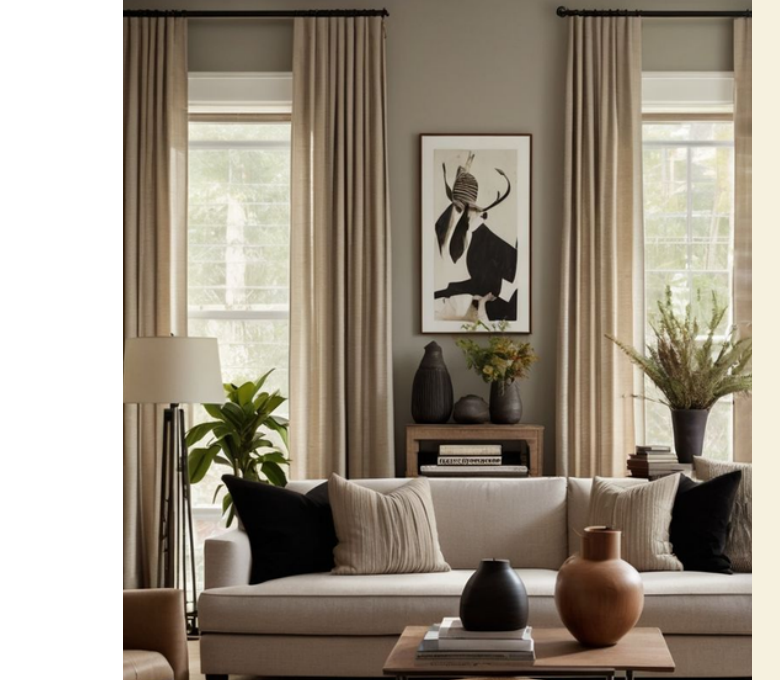
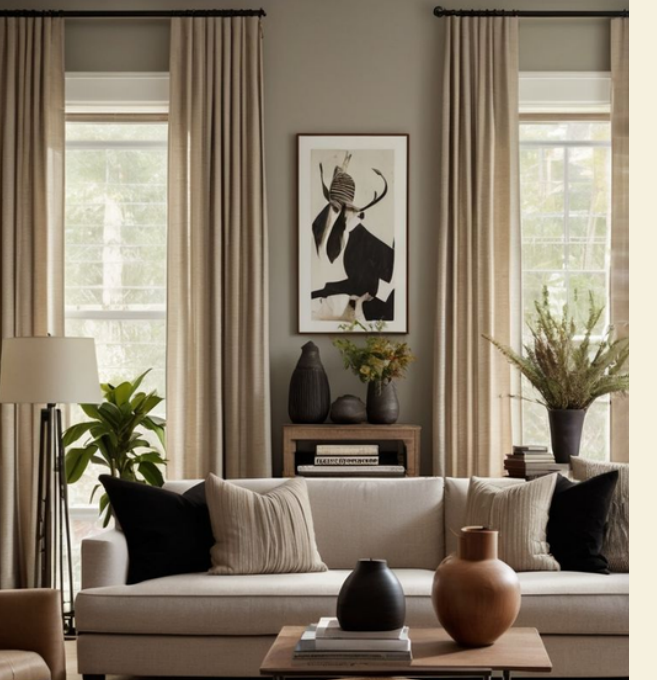
adding img

diff --git a/curtain studio/src/pages/Home.tsx b/curtain studio/src/pages/Home.tsx
@@ -2,12 +2,27 @@ import { motion } from "framer-motion";
 import heroImg from "../assets/hero_living_room.png";
 import productsImg from "../assets/products_collage.png";
 import timelineImg from "../assets/timeline.png";
+import processImg from "../assets/process_img.jpg";
 import { brand, sections, milestones } from "../data/content";
 import { Card, CardBody, SectionTitle } from "../components/ui";
-import { ArrowRight, CheckCircle2, Sparkles } from "lucide-react";
+import { ArrowRight, CheckCircle2 } from "lucide-react";
 import { Link } from "react-router-dom";
-import Gallery from "../pages/Gallery"
+import Gallery from "../pages/Gallery";
 import QuoteEstimator from "../components/quote/QuoteEstimator";
+import {
+  Ruler,
+  Drill,
+  Sparkles,
+  ShieldCheck,
+  Scissors,
+  Clock3,
+  Home as HomeIcon,
+} from "lucide-react";
+
+const homeGallery = [
+  { src: processImg, alt: "Interior inspiration" },
+  { src: heroImg, alt: "Living room curtains" },
+];
 
 export default function Home() {
   return (
@@ -22,11 +37,14 @@ export default function Home() {
             </div>
             <h1 className="mt-4 text-4xl md:text-5xl font-semibold leading-tight">
               {brand.name}
-              <span className="block text-black/60 text-2xl md:text-3xl mt-2">{brand.tagline}</span>
+              <span className="block text-black/60 text-2xl md:text-3xl mt-2">
+                {brand.tagline}
+              </span>
             </h1>
             <p className="mt-4 text-black/70">
-              A growing décor brand specialising in custom curtains, rods, rails, accessories, and installation —
-              built on a deposit-based, low-risk model.
+              A growing décor brand specialising in custom curtains, rods,
+              rails, accessories, and installation — structured around a clear deposit 
+              and booking process for smooth project delivery.
             </p>
 
             <div className="mt-6 flex flex-col sm:flex-row gap-3">
@@ -44,10 +62,22 @@ export default function Home() {
               </Link>
             </div>
 
-            <div className="mt-8 grid grid-cols-3 gap-3 text-center">
-              <Stat label="Avg profit/job" value="R900–R1,100" />
-              <Stat label="Monthly potential" value="R4k–R12k" />
-              <Stat label="Model" value="Deposit-based" />
+            <div className="mt-8 grid grid-cols-3 gap-3">
+              <BrandStat
+                icon={<HomeIcon className="h-4 w-4 text-brass" />}
+                value="At-home consult"
+                label="We come measure & advise"
+              />
+              <BrandStat
+                icon={<Clock3 className="h-4 w-4 text-brass" />}
+                value="Fast turnaround"
+                label="Quick quote + scheduling"
+              />
+              <BrandStat
+                icon={<ShieldCheck className="h-4 w-4 text-brass" />}
+                value="Pro finish"
+                label="Neat install & styling"
+              />
             </div>
           </div>
 
@@ -57,7 +87,12 @@ export default function Home() {
             transition={{ duration: 0.5 }}
             className="rounded-3xl overflow-hidden shadow-soft border border-black/5 bg-white"
           >
-            <img src={heroImg} alt="Styled living room with curtains" className="w-full h-full object-cover" />
+            <img
+              src={heroImg}
+              alt="Styled living room with curtains"
+             className="w-full h-[350px] md:h-[450px] object-cover"
+
+            />
           </motion.div>
         </div>
       </section>
@@ -100,45 +135,86 @@ export default function Home() {
               </CardBody>
             </Card>
           </div>
-
-          
         </div>
       </section>
 
       {/*Gallery */}
-     <Gallery/>
+      <Gallery />
 
-      {/* Milestones */}
-      <section className="border-t border-black/5 bg-white/40">
+      {/* ✅ REPLACED MILESTONES: conversion-focused “How it works” + “Promise” */}
+      <section className="border-t border-black/5">
         <div className="container py-12">
           <SectionTitle
-            eyebrow="Future plans"
-            title="From curtains to a full décor brand"
-            subtitle="Over the next three years, we expand our product range, team, and physical footprint."
+            eyebrow="How it works"
+            title="A simple, clean process — from measurement to install"
+            subtitle="Designed for convenience and a premium finish."
           />
 
-          <div className="mt-8 grid gap-6 md:grid-cols-2 items-start">
-            <div className="rounded-2xl overflow-hidden border border-black/5 bg-white shadow-soft">
-              <img src={timelineImg} alt="Milestones timeline" className="w-full object-cover" />
+          <div className="mt-8 grid gap-6 md:grid-cols-3">
+            <ProcessCard
+              icon={<Ruler className="h-5 w-5 text-brass" />}
+              title="1) Consult & measure"
+              text="We visit, measure accurately, and help you pick fabric + style."
+            />
+            <ProcessCard
+              icon={<Scissors className="h-5 w-5 text-brass" />}
+              title="2) Custom make"
+              text="Your curtains are made-to-fit with neat stitching and clean lines."
+            />
+            <ProcessCard
+              icon={<Drill className="h-5 w-5 text-brass" />}
+              title="3) Install & style"
+              text="We install rods/rails and finish the look so it’s ready to enjoy."
+            />
+          </div>
+
+          <div className="mt-10 grid gap-6 md:grid-cols-2 items-start">
+            <div className="rounded-3xl overflow-hidden border border-black/10 shadow-soft bg-white">
+              <img
+                src={processImg}
+                alt="Interior styling inspiration"
+                className="w-full h-72 md:h-80 object-cover"
+              />
             </div>
 
             <Card>
               <CardBody>
-                <div className="font-semibold">Milestones</div>
-                <ol className="mt-3 space-y-3 text-black/70">
-                  {milestones.map((m) => (
-                    <li key={m.year} className="flex gap-3">
-                      <span className="mt-0.5 inline-flex h-7 w-14 items-center justify-center rounded-xl bg-sand text-ink text-sm font-semibold">
-                        {m.year}
-                      </span>
-                      <span>{m.text}</span>
-                    </li>
-                  ))}
-                </ol>
+                <div className="flex items-center gap-2 font-semibold">
+                  <ShieldCheck className="h-5 w-5 text-brass" />
+                  The Curtain Studio Promise
+                </div>
 
-                <div className="mt-6">
-                  <Link to="/investors" className="inline-flex items-center gap-2 text-brass hover:underline">
-                    See investment plan <ArrowRight className="h-4 w-4" />
+                <ul className="mt-3 space-y-2 text-black/70">
+                  <li className="flex gap-2">
+                    <CheckCircle2 className="h-5 w-5 text-brass shrink-0" />
+                    <span>Accurate measurements and clear recommendations</span>
+                  </li>
+                  <li className="flex gap-2">
+                    <CheckCircle2 className="h-5 w-5 text-brass shrink-0" />
+                    <span>
+                      Quality materials + a neat, professional install
+                    </span>
+                  </li>
+                  <li className="flex gap-2">
+                    <CheckCircle2 className="h-5 w-5 text-brass shrink-0" />
+                    <span>
+                      Simple booking, simple communication, clean results
+                    </span>
+                  </li>
+                </ul>
+
+                <div className="mt-6 flex flex-col sm:flex-row gap-3">
+                  <Link
+                    to="/quote"
+                    className="rounded-xl bg-ink px-5 py-3 text-paper shadow-soft hover:opacity-95 inline-flex items-center justify-center gap-2"
+                  >
+                    Estimate my project <ArrowRight className="h-4 w-4" />
+                  </Link>
+                  <Link
+                    to="/contact"
+                    className="rounded-xl bg-sand px-5 py-3 text-ink shadow-soft hover:opacity-95 inline-flex items-center justify-center"
+                  >
+                    Book a consultation
                   </Link>
                 </div>
               </CardBody>
@@ -146,8 +222,6 @@ export default function Home() {
           </div>
         </div>
       </section>
-
-    
     </div>
   );
 }
@@ -157,6 +231,47 @@ function Stat({ label, value }: { label: string; value: string }) {
     <div className="rounded-2xl bg-white/60 border border-black/5 shadow-soft px-3 py-3">
       <div className="text-sm font-semibold">{value}</div>
       <div className="text-xs text-black/60 mt-1">{label}</div>
+    </div>
+  );
+}
+
+function BrandStat({
+  icon,
+  value,
+  label,
+}: {
+  icon: React.ReactNode;
+  value: string;
+  label: string;
+}) {
+  return (
+    <div className="rounded-2xl bg-paper/70 backdrop-blur border border-black/10 shadow-soft px-3 py-3">
+      <div className="flex items-center gap-2">
+        <span className="inline-flex h-8 w-8 items-center justify-center rounded-xl bg-sand border border-black/10">
+          {icon}
+        </span>
+        <div className="text-sm font-semibold text-ink">{value}</div>
+      </div>
+      <div className="text-xs text-black/60 mt-2">{label}</div>
+    </div>
+  );
+}
+function ProcessCard({
+  icon,
+  title,
+  text,
+}: {
+  icon: React.ReactNode;
+  title: string;
+  text: string;
+}) {
+  return (
+    <div className="rounded-3xl bg-white/70 backdrop-blur border border-black/10 shadow-soft p-5">
+      <div className="inline-flex h-10 w-10 items-center justify-center rounded-2xl bg-sand border border-black/10">
+        {icon}
+      </div>
+      <div className="mt-3 font-semibold">{title}</div>
+      <div className="mt-2 text-sm text-black/70">{text}</div>
     </div>
   );
 }

diff --git a/curtain studio/src/pages/Gallery.tsx b/curtain studio/src/pages/Gallery.tsx
@@ -1,9 +1,9 @@
 import { useMemo, useState } from "react";
 import { Card, CardBody, SectionTitle } from "../components/ui";
-import heroImg from "../assets/hero_living_room.png";
-import productsImg from "../assets/products_collage.png";
-import founderImg from "../assets/founder_temogo.png";
-import timelineImg from "../assets/timeline.png";
+import heroImg from "../assets/beforeX.jpg";
+import productsImg from "../assets/After.jpg";
+import founderImg from "../assets/warm-luxury.jpg";
+import timelineImg from "../assets/minimulist.jpg";
 import Lightbox from "../components/Lightbox";
 import BeforeAfterSlider from "../components/quote/BeforeAfterSlider";
 
@@ -18,8 +18,8 @@ export default function Gallery() {
     () => [
       { src: heroImg, alt: "Styled living room curtains", tag: "Rooms" },
       { src: productsImg, alt: "Curtain and décor product collage", tag: "Products" },
-      { src: founderImg, alt: "Founder portrait", tag: "Team" },
-      { src: timelineImg, alt: "Business milestones timeline", tag: "Growth" },
+      { src: founderImg, alt: "Warm Luxury", tag: "Team" },
+      { src: timelineImg, alt: "Modern Minimalistic", tag: "Growth" },
     ],
     []
   );

diff --git a/curtain studio/src/pages/Products.tsx b/curtain studio/src/pages/Products.tsx
@@ -11,9 +11,9 @@ export default function Products() {
         subtitle="Choose a style, then we measure, advise, supply, and install."
       />
 
-      <div className="mt-8 rounded-2xl overflow-hidden border border-black/5 bg-white shadow-soft">
+      {/* <div className="mt-8 rounded-2xl overflow-hidden border border-black/5 bg-white shadow-soft">
         <img src={productsImg} alt="Products collage" className="w-full object-cover" />
-      </div>
+      </div> */}
 
       <div className="mt-10 grid gap-6 md:grid-cols-2">
         <Card>
